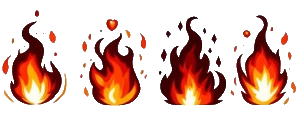
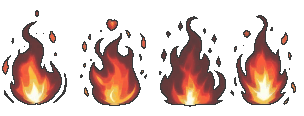
possible fix for collisions

diff --git a/app/lib/game/flammable_decoration.dart b/app/lib/game/flammable_decoration.dart
@@ -11,9 +11,12 @@ class FlammableDecoration extends GameDecoration with Sensor {
     required Vector2 position,
   }) : super.withAnimation(
           animation: PlatformSpritesheet.fire,
-          position: position..translate(0, -8),
-          size: Vector2(128 * 1.5, 128 * 1.5),
+          position: position..translate(0, -20),
+          size: Vector2(128 * 1.2, 128 * 1.2),
         ) {}
+
+  @override
+  void onContactExit(GameComponent component) => onContact(component);
 
   @override
   void onContact(GameComponent component) {
@@ -24,7 +27,7 @@ class FlammableDecoration extends GameDecoration with Sensor {
       PlatformSpritesheet.fireOn.then((fire) {
         setAnimation(fire);
         size = Vector2(128 * 1.5, 116 * 3);
-        position = position..translate(0, -116);
+        position = position..translate(0, -106);
         _onFire = true;
       });
     }

diff --git a/app/lib/game/ui/score_widget.dart b/app/lib/game/ui/score_widget.dart
@@ -13,14 +13,15 @@ class ProgressBarWidget extends StatelessWidget {
         listenable: controller,
         builder: (context, _) {
           return Padding(
-            padding: const EdgeInsets.only(left: 45, top: 60),
+            padding: const EdgeInsets.only(left: 40, top: 40),
             child: Column(
               children: [
                 Row(
                   children: [
                     Text(
-                      '${(controller.goals).toInt()}🔥     ${(controller.enemies).toInt()} 👹',
-                      style: const TextStyle(color: Colors.yellowAccent),
+                      '${(controller.goals).toInt()} 🔥     ${(controller.enemies).toInt()} 👹',
+                      style: const TextStyle(
+                          color: Colors.yellowAccent, fontSize: 20),
                     )
                   ],
                 ),
